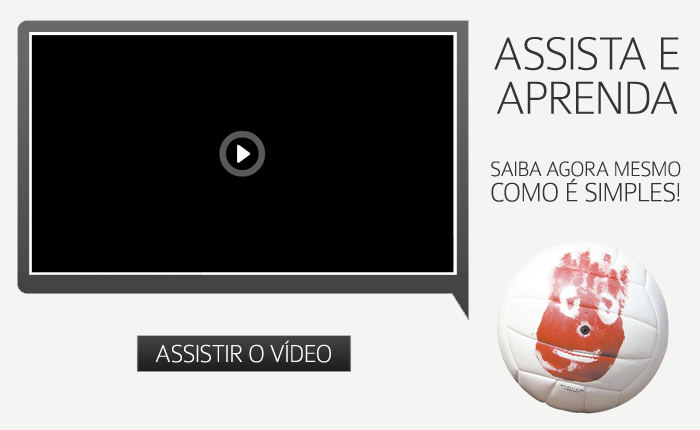
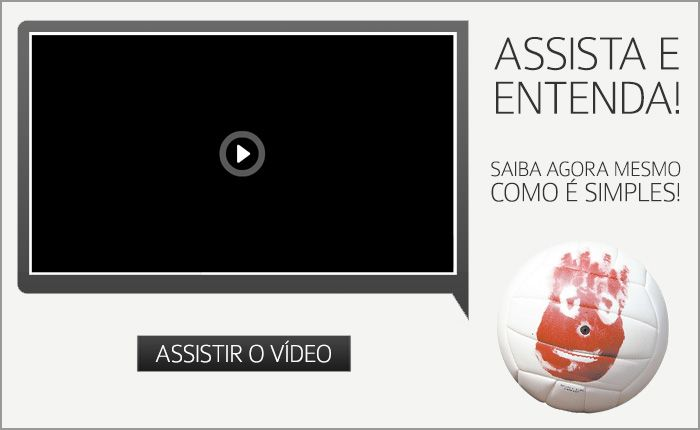
atualizando imagens do slide da pagina principal

Changed region(s): [[0.0, 0.0, 1.0, 1.0], [0.81, 0.8163, 0.87, 0.8465], [0.78, 0.8465, 0.81, 0.8767]]

diff --git a/app/assets/stylesheets/home_header.css.scss b/app/assets/stylesheets/home_header.css.scss
@@ -77,7 +77,7 @@ body {
       }
 
       #slides {
-        width: 68%;
+        width: 70%;
         position:absolute;
         top: 7px;
         left: 4px;
